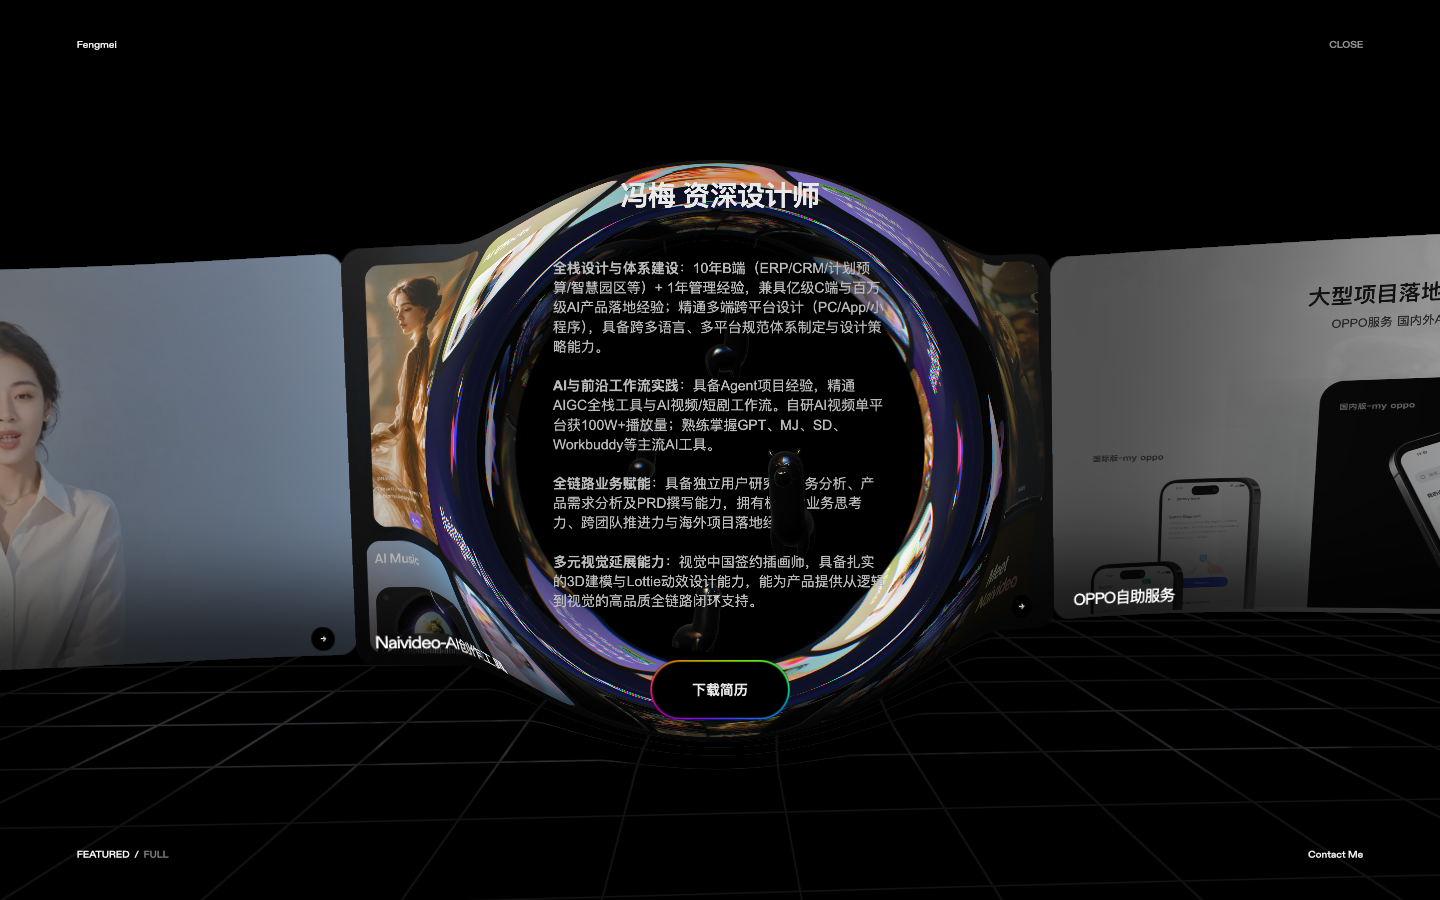
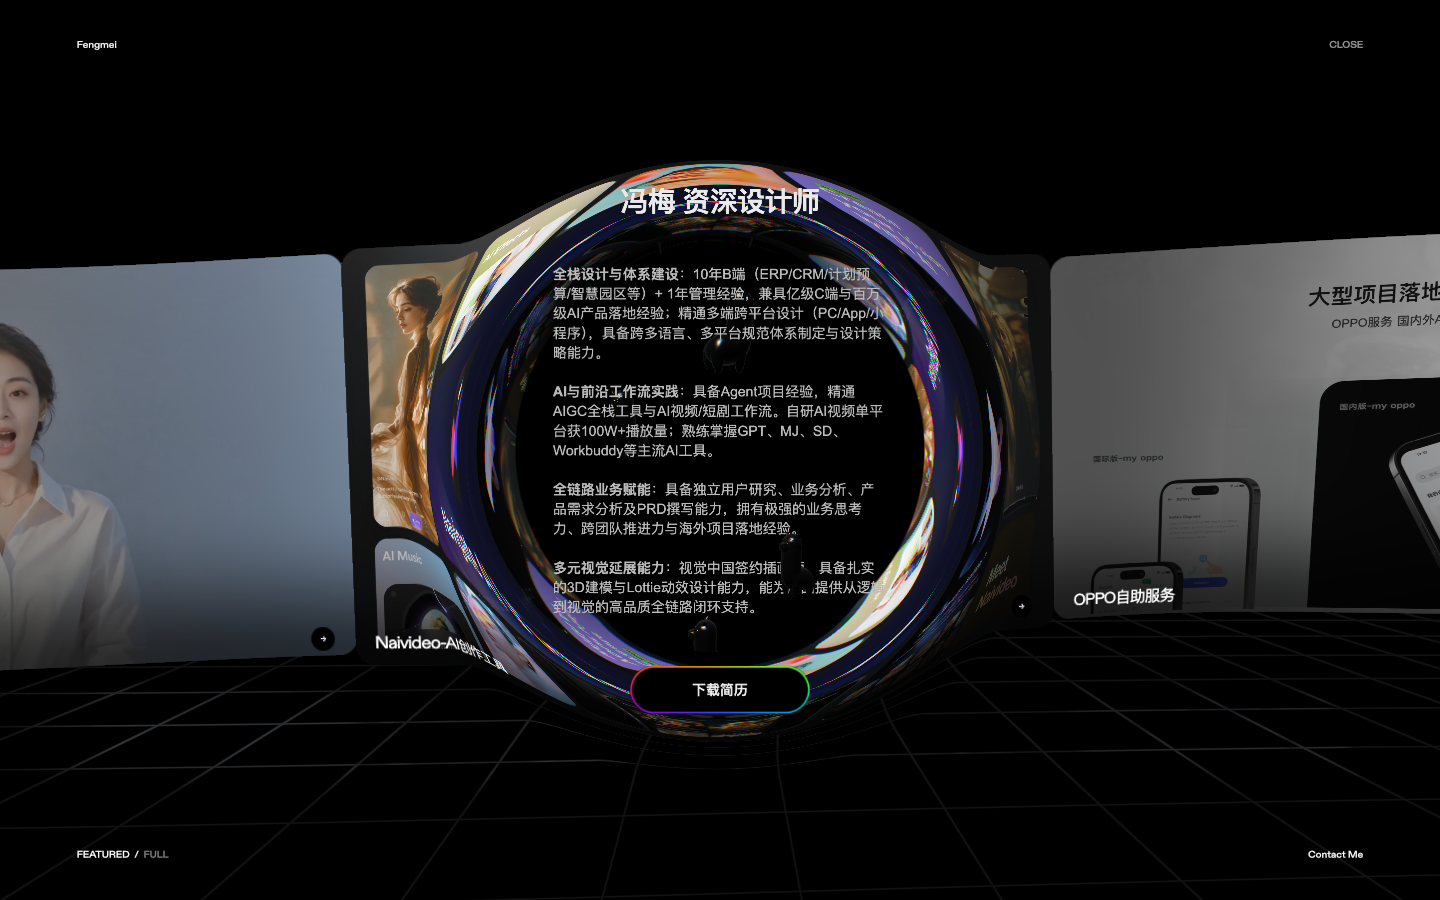
Set resume download button to 180 by 48 pixels

diff --git a/tools/verify_profile_revision.js b/tools/verify_profile_revision.js
@@ -5,8 +5,8 @@ try{for(const mobile of [false,true]){
 const page=await browser.newPage({viewport:mobile?{width:390,height:844}:{width:1440,height:900},isMobile:mobile,hasTouch:mobile}),errors=[];page.on('pageerror',e=>errors.push(e.message));
 await page.goto(origin);await page.waitForFunction(()=>!document.querySelector('[data-gl="bar"]'));
 await page.getByRole('button',{name:'Profile',exact:true}).click({force:true});await page.waitForTimeout(3600);
-const layout=await page.evaluate(()=>{const bio=document.querySelector('p[class*="max-w-[35rem]"]'),title=document.querySelector('.profile-name'),resume=document.querySelector('.profile-resume'),box=bio.parentElement;const r=bio.getBoundingClientRect(),h=title.getBoundingClientRect(),b=resume.getBoundingClientRect();return{font:getComputedStyle(bio).fontSize,shadow:getComputedStyle(bio).textShadow,gap:r.top-h.bottom,height:b.height,width:r.width,disc:box.parentElement.getBoundingClientRect().width*.7,buttonText:resume.textContent,clipped:bio.scrollHeight>bio.clientHeight+1,bounds:{top:h.top,bottom:b.bottom},headings:bio.querySelectorAll('strong').length}});
-if(layout.font!=='14px'||layout.shadow!=='none'||layout.gap<47||layout.height!==60||layout.width>layout.disc||layout.buttonText!=='下载简历'||layout.clipped||layout.headings!==4)throw Error(JSON.stringify(layout));
+const layout=await page.evaluate(()=>{const bio=document.querySelector('p[class*="max-w-[35rem]"]'),title=document.querySelector('.profile-name'),resume=document.querySelector('.profile-resume'),box=bio.parentElement;const r=bio.getBoundingClientRect(),h=title.getBoundingClientRect(),b=resume.getBoundingClientRect();return{font:getComputedStyle(bio).fontSize,shadow:getComputedStyle(bio).textShadow,gap:r.top-h.bottom,height:b.height,buttonWidth:b.width,width:r.width,disc:box.parentElement.getBoundingClientRect().width*.7,buttonText:resume.textContent,clipped:bio.scrollHeight>bio.clientHeight+1,bounds:{top:h.top,bottom:b.bottom},headings:bio.querySelectorAll('strong').length}});
+if(layout.font!=='14px'||layout.shadow!=='none'||layout.gap<47||layout.height!==48||layout.buttonWidth!==180||layout.width>layout.disc||layout.buttonText!=='下载简历'||layout.clipped||layout.headings!==4)throw Error(JSON.stringify(layout));
 await page.screenshot({path:path.join(__dirname,'../screenshots/profile_fixed_'+(mobile?'mobile':'desktop')+'.png')});
 await page.getByRole('button',{name:/^close$/i}).click({force:true});await page.waitForTimeout(900);
 await page.evaluate(async()=>{const f=document.querySelector('#__nuxt').__vue_app__.config.globalProperties.$nuxt.$folio;window.__gsap=(await import(document.querySelector('script[type="module"]').src)).a6;const orig=f.showOverPills;f.showOverPills=function(pills,on,delay){const result=orig.apply(this,arguments);if(on&&pills.includes(f.profileResumePill)){window.__buttonTween=window.__gsap.getTweensOf(f.profileResumePill)[0];window.__buttonTween?.pause(0)}return result}});
@@ -18,5 +18,5 @@ for(const label of ['Contact Me','Profile']){await page.getByRole('button',{name
 const closed=await page.evaluate(()=>{const f=document.querySelector('#__nuxt').__vue_app__.config.globalProperties.$nuxt.$folio;return{alpha:f.overlay.filter(o=>['profile','news'].includes(o.group)).map(o=>o.mesh.material.uniforms.u_alpha.value),shadow:getComputedStyle(document.querySelector('p[class*="max-w-[35rem]"]')).textShadow}});
 if(closed.shadow!=='none'||closed.alpha.some(a=>a>.001))throw Error('Overlay text survived close '+JSON.stringify(closed));
 await page.screenshot({path:path.join(__dirname,'../screenshots/home_no_profile_shadow_'+(mobile?'mobile':'desktop')+'.png')});
-if(errors.length)throw Error(errors.join('\n'));report.push({mobile,layout,samples,closed});console.log('PASS',mobile?'mobile':'desktop','fixed 14px, title gap, 60px button, native label/rim synchrony, no homepage shadow');await page.close();
+if(errors.length)throw Error(errors.join('\n'));report.push({mobile,layout,samples,closed});console.log('PASS',mobile?'mobile':'desktop','fixed 14px, title gap, 180×48px button, native label/rim synchrony, no homepage shadow');await page.close();
 }fs.writeFileSync(path.join(__dirname,'../raw/verify_profile_revision.json'),JSON.stringify(report,null,2)+'\n')}finally{await browser.close()}})().catch(e=>{console.error(e);process.exit(1)});

diff --git a/site/local-copy.css b/site/local-copy.css
@@ -207,7 +207,7 @@ div.fixed.z-40:not([inert]) .profile-phone {
 }
 .profile-resume {
   display: inline-flex; align-items: center; justify-content: center;
-  flex-shrink: 0; min-width: 140px; height: 60px; min-height: 60px; margin-top: 48px;
+  flex-shrink: 0; width: 180px; min-width: 180px; height: 48px; min-height: 48px; box-sizing: border-box; margin-top: 48px;
   padding: 0 24px; border: 0; border-radius: 999px; background: transparent;
   font-size: 14px; font-weight: 600; line-height: 1.2; color: #f5f5f5;
   -webkit-text-fill-color: #f5f5f5; text-decoration: none; pointer-events: auto;

diff --git a/tools/inject_profile.py b/tools/inject_profile.py
@@ -175,7 +175,7 @@ div.fixed.z-40:not([inert]) .profile-phone {
 }
 .profile-resume {
   display: inline-flex; align-items: center; justify-content: center;
-  flex-shrink: 0; min-width: 140px; height: 60px; min-height: 60px; margin-top: 48px;
+  flex-shrink: 0; width: 180px; min-width: 180px; height: 48px; min-height: 48px; box-sizing: border-box; margin-top: 48px;
   padding: 0 24px; border: 0; border-radius: 999px; background: transparent;
   font-size: 14px; font-weight: 600; line-height: 1.2; color: #f5f5f5;
   -webkit-text-fill-color: #f5f5f5; text-decoration: none; pointer-events: auto;
